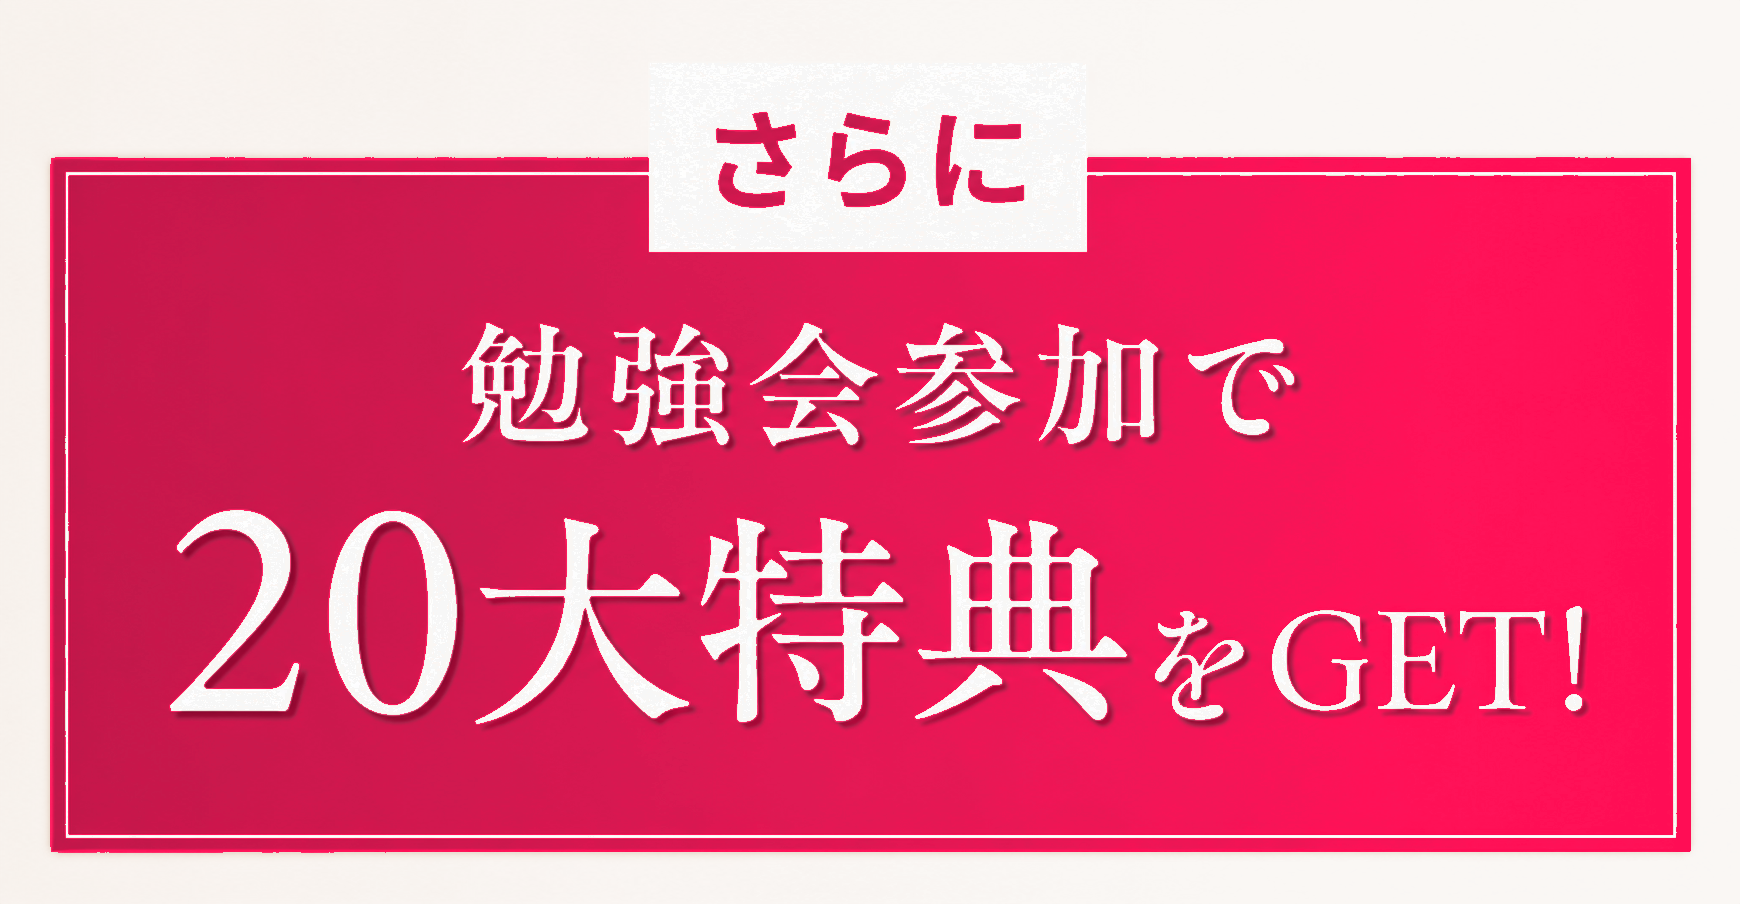
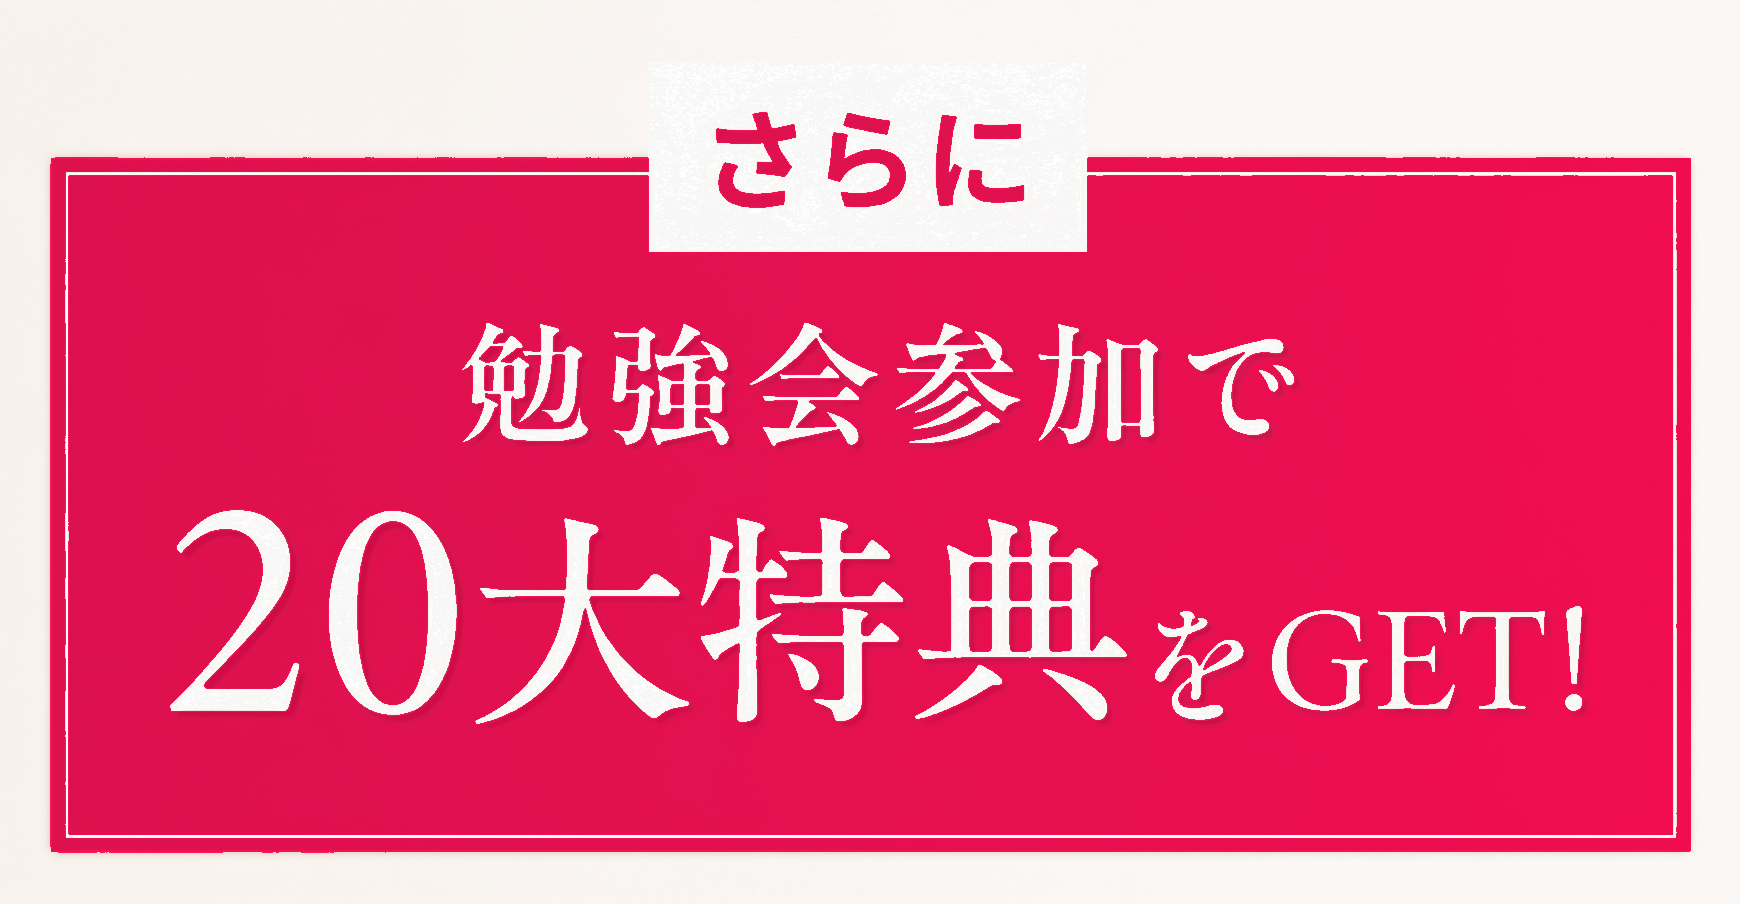
グラデーション解消：陰影を35%に圧縮してベタ塗り寄りに再変換＋フッター単色化

diff --git a/index.html b/index.html
@@ -845,7 +845,7 @@ a{text-decoration:none;color:inherit;}
 /* ============================================================
    11. フッター
 ============================================================ */
-footer{background:linear-gradient(180deg,#E22558,#CC0A40);color:#fff;text-align:center;padding:26px 4% 30px;}
+footer{background:#DE0C4A;color:#fff;text-align:center;padding:26px 4% 30px;}
 footer .f-links{display:flex;flex-wrap:wrap;justify-content:center;gap:6px 22px;font-size:13px;font-weight:500;}
 footer .f-links a{text-decoration:underline;text-underline-offset:3px;}
 footer .f-copy{margin-top:14px;font-size:12px;opacity:.95;}
@@ -864,7 +864,7 @@ footer .f-copy{margin-top:14px;font-size:12px;opacity:.95;}
 
   <!-- ============ 2. 特典セクション ============ -->
   <section class="tokuten">
-    <img class="tokuten-head-img" src="images/tokuten-head.png?v=4" alt="勉強会 豪華参加特典｜女性起業家の資産形成完全ロードマップ 勉強会専用LINEにご登録の方全員に 最大30大特典プレゼント 登録してすぐに10大特典GET" width="1586" height="992">
+    <img class="tokuten-head-img" src="images/tokuten-head.png?v=5" alt="勉強会 豪華参加特典｜女性起業家の資産形成完全ロードマップ 勉強会専用LINEにご登録の方全員に 最大30大特典プレゼント 登録してすぐに10大特典GET" width="1586" height="992">
 
     <div class="bk-grid">
       <div class="bk-row">
@@ -886,7 +886,7 @@ footer .f-copy{margin-top:14px;font-size:12px;opacity:.95;}
     </div>
 
     <!-- さらに20大特典 -->
-    <img class="more-box-img" src="images/more-20.png?v=3" alt="さらに 勉強会参加で 20大特典をGET!" width="1740" height="904">
+    <img class="more-box-img" src="images/more-20.png?v=4" alt="さらに 勉強会参加で 20大特典をGET!" width="1740" height="904">
 
     <div class="present-grid">
       <div class="pr-item"><img src="images/line-present-01.png?v=2" alt="月50万円の不労所得が手に入る！不動産投資はじめの一歩ガイド" loading="lazy"></div>
@@ -942,15 +942,15 @@ footer .f-copy{margin-top:14px;font-size:12px;opacity:.95;}
   <!-- ============ 7. 監修者セクション ============ -->
   <section class="kanshu">
     <img class="profile-img" src="images/profile-head.png?v=2" alt="年商1億を資産10億へ。3児のママ経営者が実践する女性起業家の資産形成術。" width="1012" height="278">
-    <img class="profile-img" src="images/kanshu-band.png?v=4" alt="事業と資産形成の両立を実現した 女性起業家 松田リエ監修。年商10億・資産20億超、40室以上の不動産を保有し、M&Aも経験した3児のママ経営者が監修。事業の利益を不動産や資産へ変え、自分が働かなくてもお金が増えていく仕組みを構築。「どう資産を作るか」を、リアルな経験に基づいて体系化した資産形成の無料講座です。" width="1122" height="1402">
-    <img class="profile-img" src="images/rie-profile.png?v=5" alt="松田リエ Rie Matsuda。3児のママ経営者でありながら年商10億・資産20億超を実現／40室以上の不動産を保有し事業利益を資産へ変える仕組みを構築／M&Aも経験しお金を増やす経営を実践／累計受講生4,500名以上／YouTube登録者22万人・総フォロワー70万人超・テレビ出演16回以上／出版17冊・累計43万部突破" width="962" height="1725">
+    <img class="profile-img" src="images/kanshu-band.png?v=5" alt="事業と資産形成の両立を実現した 女性起業家 松田リエ監修。年商10億・資産20億超、40室以上の不動産を保有し、M&Aも経験した3児のママ経営者が監修。事業の利益を不動産や資産へ変え、自分が働かなくてもお金が増えていく仕組みを構築。「どう資産を作るか」を、リアルな経験に基づいて体系化した資産形成の無料講座です。" width="1122" height="1402">
+    <img class="profile-img" src="images/rie-profile.png?v=6" alt="松田リエ Rie Matsuda。3児のママ経営者でありながら年商10億・資産20億超を実現／40室以上の不動産を保有し事業利益を資産へ変える仕組みを構築／M&Aも経験しお金を増やす経営を実践／累計受講生4,500名以上／YouTube登録者22万人・総フォロワー70万人超・テレビ出演16回以上／出版17冊・累計43万部突破" width="962" height="1725">
     <img class="profile-img" src="images/jisseki.png?v=8" alt="実績画像・メディア掲載多数。テレビ出演写真／週刊女性・THE TIME,・美的.com・Yahoo!ニュース・小学館・女子SPA!・毎日新聞・朝日新聞・産経新聞・読売新聞・中日新聞・壮快ほか雑誌掲載多数。累計受講生4,500名以上／YouTube総登録者22万人以上／総フォロワー70万人突破／累計43万部突破／テレビ出演16回以上" width="724" height="1369">
   </section>
 
   <!-- ============ 9-10. ビジョン〜ラスト（画像） ============ -->
   <section class="last">
     <img class="vision-img" src="images/vision-head.png?v=1" alt="「売上を作る力」だけでなく、「資産を作る力」も身につけてほしい。女性起業家が家族との時間も、お金の安心も、どちらも手に入れられる社会をつくりたい。そのために誕生した講座です" width="1086" height="1449">
-    <img class="vision-img" src="images/vision-main.png?v=5" alt="年商1億を資産10億へ。売上を追い続ける女性起業家から、資産が増え続ける女性経営者へ。今こそ、資産形成の第一歩を。女性起業家のための資産形成完全ロードマップ 完全無料 オンライン勉強会を開催中！" width="941" height="749">
+    <img class="vision-img" src="images/vision-main.png?v=6" alt="年商1億を資産10億へ。売上を追い続ける女性起業家から、資産が増え続ける女性経営者へ。今こそ、資産形成の第一歩を。女性起業家のための資産形成完全ロードマップ 完全無料 オンライン勉強会を開催中！" width="941" height="749">
     <div class="last-video" style="position:relative;">
       <img class="vision-img" src="images/last-video.png?v=2" alt="動画講座全3回(100分以上)プレゼント！ビジネスで稼ぐ力だけでなく、資産を作る力、守る力を身につけませんか？" width="1523" height="1033">
       <a class="cta-link" href="https://line.me/R/ti/p/@623nffxx" style="position:absolute;left:3.77%;top:44.9%;width:92.46%;display:block;">
